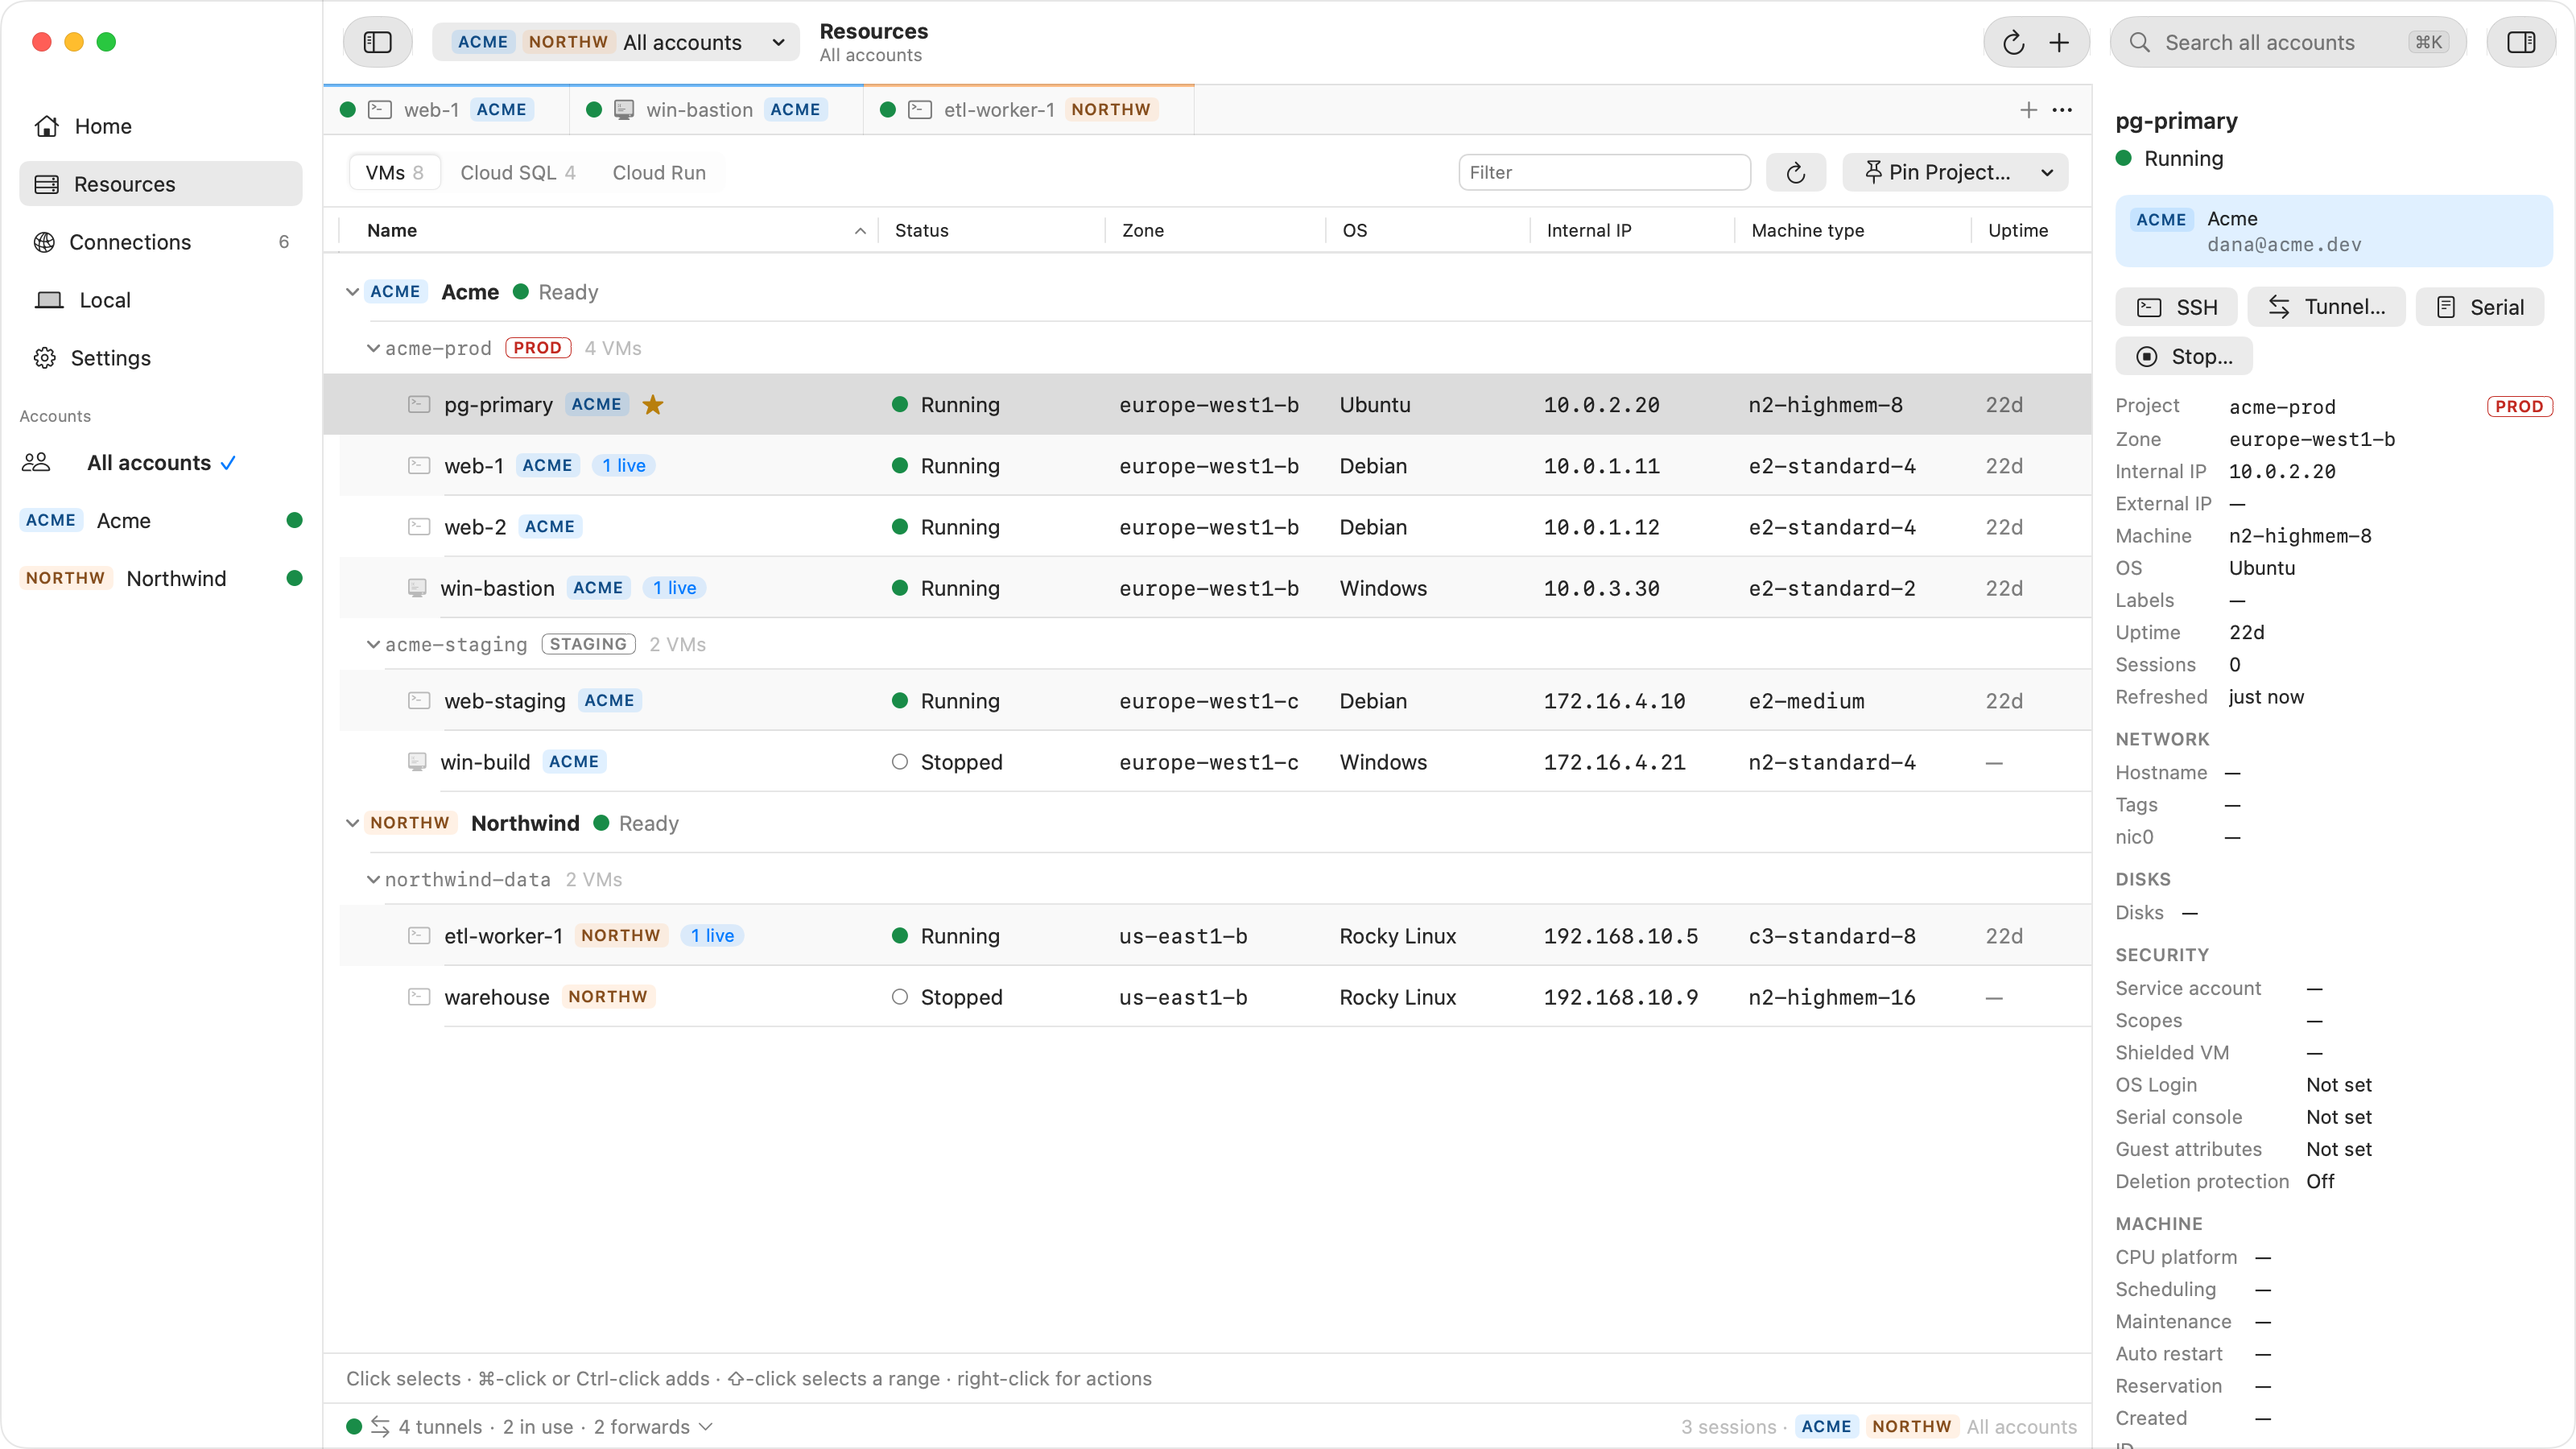
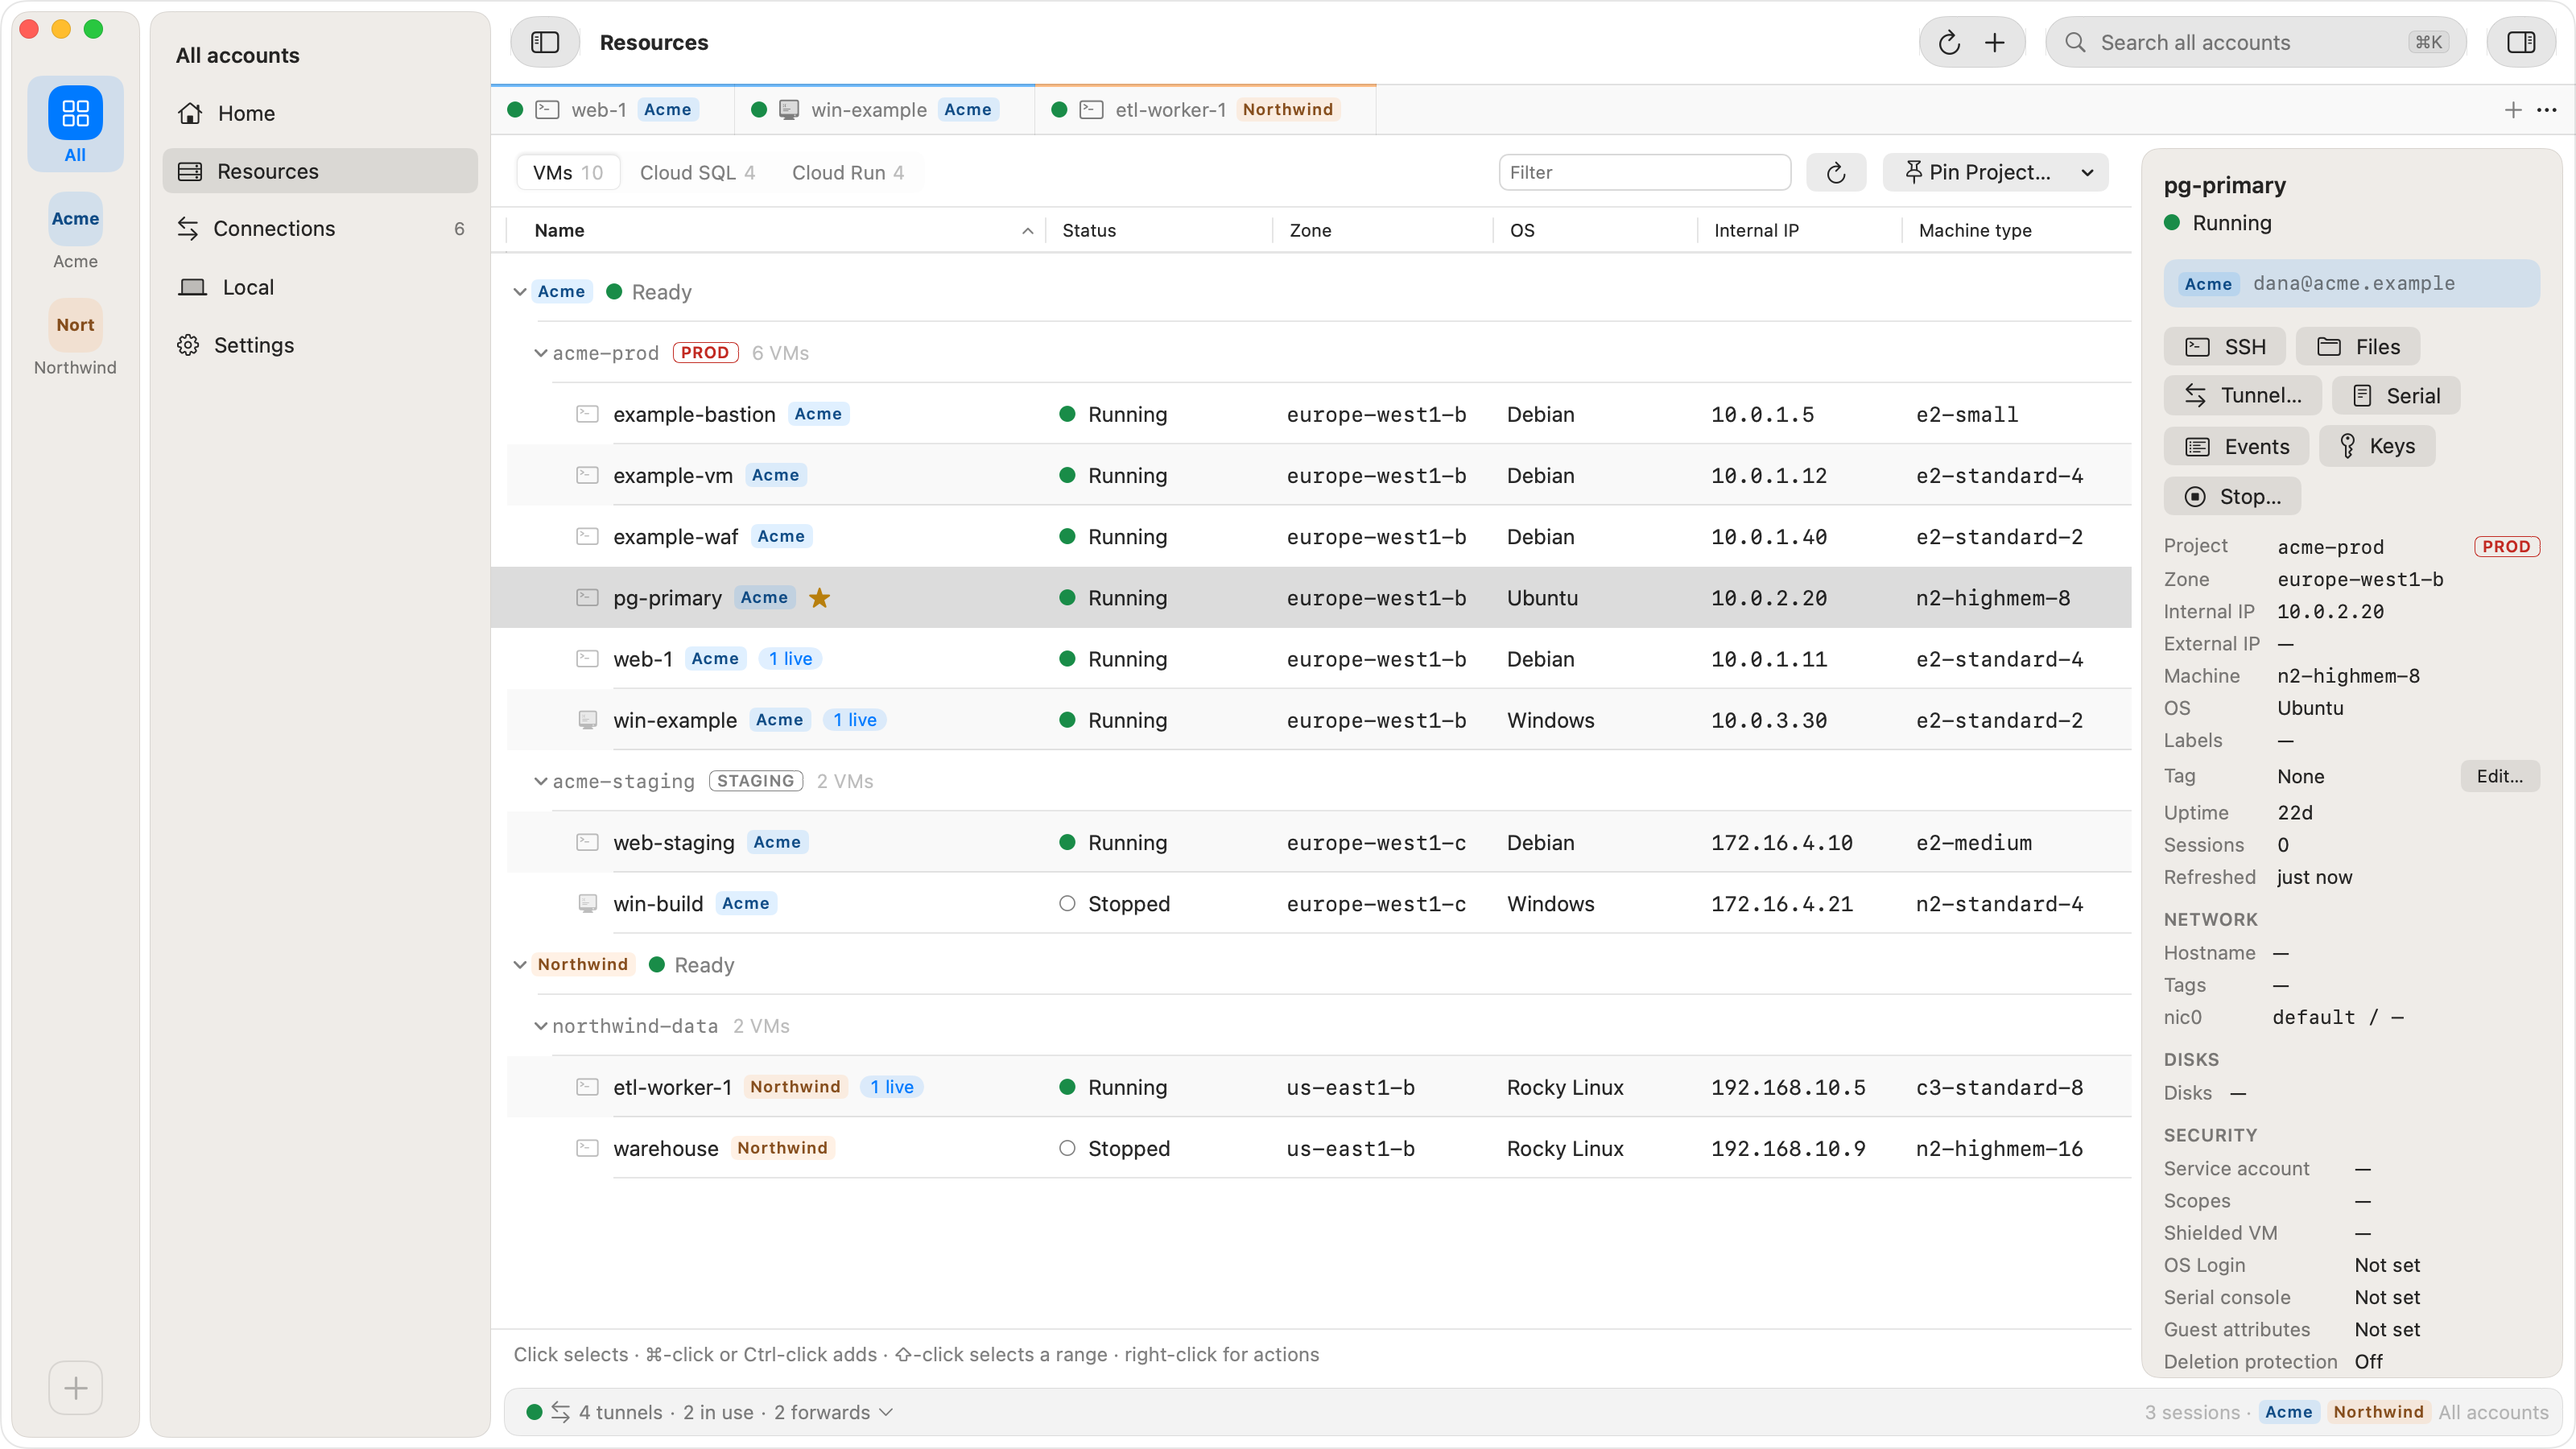
Release notes for 0.0.2 in CHANGELOG.md; README lists the account rail, session bar, folder transfers and tunnels that survive sleep, states the published prices, and shows the 0.0.2 screenshots

diff --git a/CHANGELOG.md b/CHANGELOG.md
@@ -1,0 +1,76 @@
+# Release notes
+
+What is new in each version of Ostgate, newest first. The same notes, with what comes next,
+are at [ostgate.app/changelog](https://ostgate.app/changelog).
+
+## 0.0.2 — 7 October 2026
+
+Apple Silicon · macOS 26.3 or later
+
+### Window and sessions
+
+- Accounts sit in a rail on the left, each with a badge for its open problems. `⌥⌘1…9`
+  switches between them, and the sidebar collapses to icons.
+- SSH and Remote Desktop tabs carry a session bar: status, account, `user@vm`, address,
+  route and **Disconnect**.
+- Short confirmations appear as toasts over the window: a refresh, a copied address, a
+  closed tab.
+
+### Files
+
+- Upload whole folders with Upload… or by dragging them in. A folder that already exists on
+  the instance is merged after one confirmation for the whole upload.
+- Download a folder, several files, or folders and files together as one ZIP, built on your
+  Mac.
+- A folder, or five or more items, is packed on the instance with `tar` and streamed
+  compressed over the same connection, with nothing written to its disk. A folder of 5,000
+  small files takes a few seconds. SFTP-only logins copy several files at a time.
+- A Files tab that loses its connection shows **Connection lost** with **Reconnect**, which
+  brings it back in the same folder.
+
+### Accounts
+
+- Without a network an account shows **can't be reached** with **Check Again**, and is
+  checked again by itself when the network returns.
+- Sign-ins or SSH keys left in the Keychain by an account that is no longer in Ostgate are
+  listed under **Review…**, to remove or restore.
+
+### Tunnels and forwards
+
+- Tunnels ride out relay drops, Wi-Fi outages and sleep: they dial again as soon as the
+  network returns or the Mac wakes. A tunnel that can't come back says so within a few
+  minutes, with **Reconnect**.
+- New Tunnel… has an **Interface** row for instances with more than one network interface.
+- When a tunnel's or forward's access setting turns a program away, the row names the
+  program, and **Change Access…** lets it in.
+- Local Ports names the ports Ostgate itself listens on.
+- Cloud SQL **Via bastion** lists the Linux VMs on the instance's network first.
+
+### Remote Desktop
+
+- After you log on with a typed password, the bar over the desktop offers to save it.
+- The shared folder is a per-instance connection setting; **Share Folder…** in the Session
+  menu changes it and reconnects.
+- **Set Windows Password…** asks first, naming the account and project, and fills in the
+  Windows user set for that instance.
+
+### SSH
+
+- `ssh` from Terminal tries each signed-in account in turn, starting with those that have
+  the instance's project pinned, until one is allowed through.
+
+### Settings and licence
+
+- Settings is split into tabs: Connections, Accounts, SSH, Terminal and License.
+- License shows how many Macs your plan covers, and **Manage Subscription…** opens your
+  subscription. **Enter New Key…** switches a licensed Mac to another key.
+- A renewed licence takes effect without entering the key again.
+
+Plus fixes, security hardening and polish throughout.
+
+## 0.0.1 — 30 September 2026
+
+The first release: SSH, Remote Desktop, SFTP and TCP tunnels to Compute Engine VMs through
+IAP, several Google accounts side by side, Cloud SQL and Cloud Run tunnels, Terminal
+integration and the Connection Doctor. Full notes:
+[ostgate.app/changelog#v0.0.1](https://ostgate.app/changelog#v0.0.1).

diff --git a/README.md b/README.md
@@ -13,7 +13,7 @@
   <a href="https://github.com/ostgate/ostgate-iap-app/releases/latest"><b>Download the latest release</b></a> ·
   <a href="https://ostgate.app">Website</a> ·
   <a href="https://ostgate.app/docs">Docs</a> ·
-  <a href="https://ostgate.app/changelog">Release notes</a>
+  <a href="CHANGELOG.md">Release notes</a>
 </p>
 
 <picture>
@@ -40,7 +40,14 @@ not public.
 - **Cloud SQL and Cloud Run.** Open a tunnel to a Cloud SQL private IP, or an internal-only
   Cloud Run service in the browser, through IAP.
 - **Several Google accounts side by side,** each with its own tokens, SSH key, tunnels and
-  settings.
+  settings, in a rail on the left with a problems badge per account and `⌥⌘1…9` to switch.
+- **Sessions that say where they go.** Every SSH and RDP tab carries a session bar with its
+  status, account, `user@vm`, address, route and Disconnect.
+- **Files.** Upload and download whole folders; folders and many small files travel packed
+  with `tar` over the same connection, with nothing written to the VM's disk.
+- **Tunnels that stay up** through relay drops, Wi-Fi outages and sleep, with a choice of the
+  VM's network interface and a per-tunnel access level (Ostgate only, your processes, or any
+  local process).
 - **SSH keys generated on your Mac** (Secure Enclave P-256 where available) and published
   through OS Login or instance metadata. Host keys are verified.
 - **Terminal integration.** One click adds a `Host *.gcp` block to `~/.ssh/config`, so
@@ -92,9 +99,10 @@ codesign -dv /Applications/Ostgate.app 2>&1 | grep TeamIdentifier   # C83FBCDMHY
 ## License and trial
 
 Ostgate is commercial software. It starts with a 7-day free trial, with no sign-up; after
-that it needs a license key for one Mac at a time. For keys, write to
-[support@ostgate.app](mailto:support@ostgate.app). Use of the app is governed by the
-[Terms of Service](https://ostgate.app/terms); see [LICENSE](LICENSE).
+that it needs a license key. A key covers the whole app on two Macs: $79 a year or $9 a month
+for individuals, $129 per user a year for companies. See [Pricing](https://ostgate.app/pricing).
+Use of the app is governed by the [Terms of Service](https://ostgate.app/terms); see
+[LICENSE](LICENSE).
 
 ## Privacy
 
